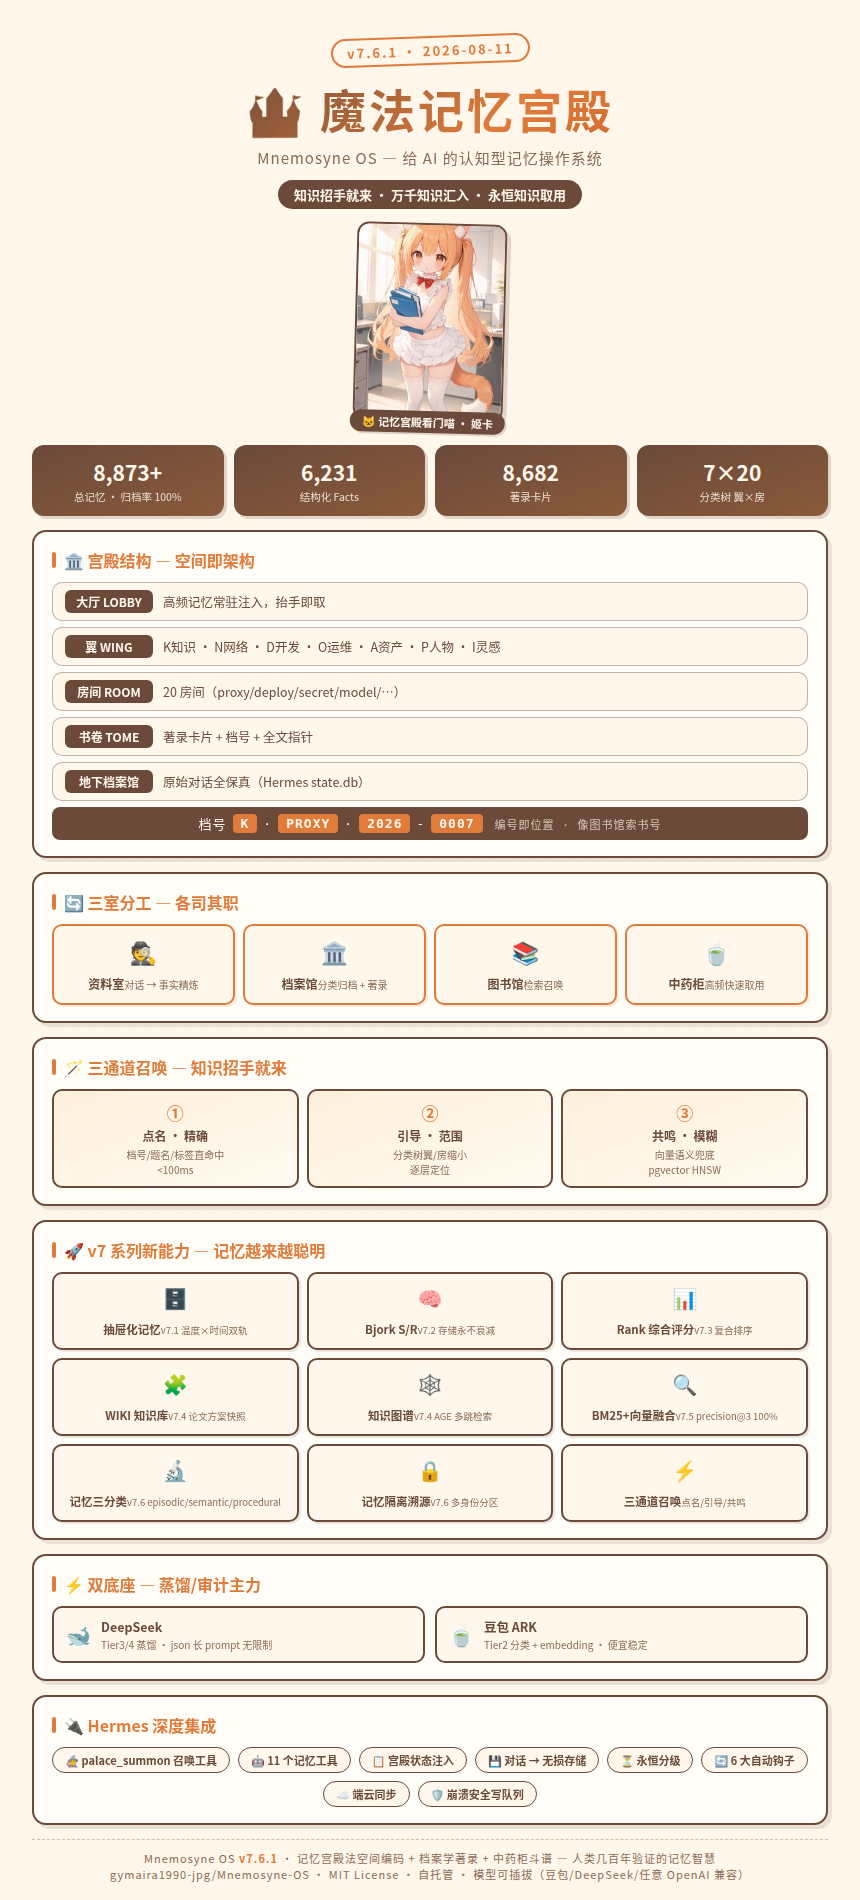
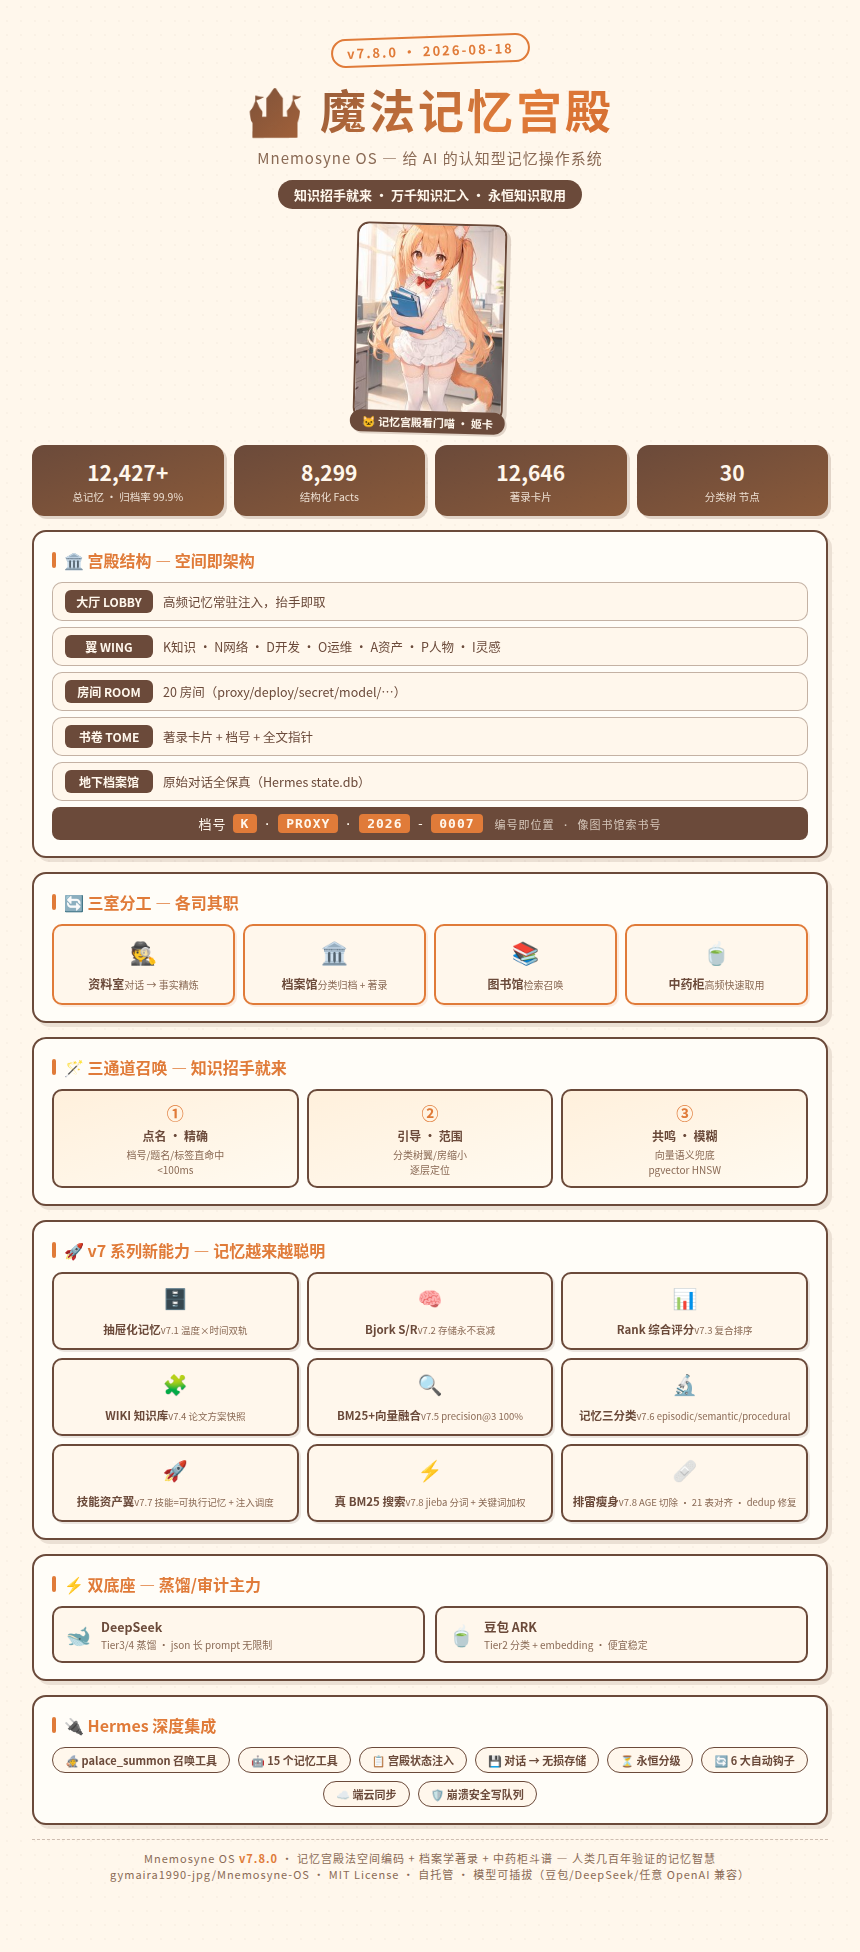
chore: v7.8 仓库装修 + CI + 海报换代
- 删除已禁用 browser.html(安全弃用, 无引用残留)
- 新增 GitHub Actions CI: pytest 双 Python 版本(3.11/3.12) + README CI badge
- 海报换代 v7.8.0: 数据快照(12,427/8,299/12,646/30), v7 能力格更新(技能资产翼/真BM25/排雷瘦身), 15 工具, 860×1952
- CHANGELOG 补装修记录

Changed region(s): [[0.0302, 0.0, 0.9674, 0.9937]]

diff --git a/docs/poster.html b/docs/poster.html
@@ -141,7 +141,7 @@
 <body>
 
 <div class="hero">
-  <div class="stamp">v7.6.1 · 2026-08-11</div>
+  <div class="stamp">v7.8.0 · 2026-08-18</div>
   <h1>🏰 魔法记忆宫殿</h1>
   <div class="sub">Mnemosyne OS — 给 AI 的认知型记忆操作系统</div>
   <div class="tagline">知识招手就来 · 万千知识汇入 · 永恒知识取用</div>
@@ -156,10 +156,10 @@
 
 <!-- 数据条 -->
 <div class="stats">
-  <div class="stat"><div class="num">8,873+</div><div class="cap">总记忆 · 归档率 100%</div></div>
-  <div class="stat"><div class="num">6,231</div><div class="cap">结构化 Facts</div></div>
-  <div class="stat"><div class="num">8,682</div><div class="cap">著录卡片</div></div>
-  <div class="stat"><div class="num">7×20</div><div class="cap">分类树 翼×房</div></div>
+  <div class="stat"><div class="num">12,427+</div><div class="cap">总记忆 · 归档率 99.9%</div></div>
+  <div class="stat"><div class="num">8,299</div><div class="cap">结构化 Facts</div></div>
+  <div class="stat"><div class="num">12,646</div><div class="cap">著录卡片</div></div>
+  <div class="stat"><div class="num">30</div><div class="cap">分类树 节点</div></div>
 </div>
 
 <!-- 宫殿结构 -->
@@ -207,11 +207,11 @@
     <div class="v7item"><span class="ic">🧠</span><span class="nm">Bjork S/R</span><span class="fn">v7.2 存储永不衰减</span></div>
     <div class="v7item"><span class="ic">📊</span><span class="nm">Rank 综合评分</span><span class="fn">v7.3 复合排序</span></div>
     <div class="v7item"><span class="ic">🧩</span><span class="nm">WIKI 知识库</span><span class="fn">v7.4 论文方案快照</span></div>
-    <div class="v7item"><span class="ic">🕸</span><span class="nm">知识图谱</span><span class="fn">v7.4 AGE 多跳检索</span></div>
     <div class="v7item"><span class="ic">🔍</span><span class="nm">BM25+向量融合</span><span class="fn">v7.5 precision@3 100%</span></div>
     <div class="v7item"><span class="ic">🔬</span><span class="nm">记忆三分类</span><span class="fn">v7.6 episodic/semantic/procedural</span></div>
-    <div class="v7item"><span class="ic">🔒</span><span class="nm">记忆隔离溯源</span><span class="fn">v7.6 多身份分区</span></div>
-    <div class="v7item"><span class="ic">⚡</span><span class="nm">三通道召唤</span><span class="fn">点名/引导/共鸣</span></div>
+    <div class="v7item"><span class="ic">🚀</span><span class="nm">技能资产翼</span><span class="fn">v7.7 技能=可执行记忆 + 注入调度</span></div>
+    <div class="v7item"><span class="ic">⚡</span><span class="nm">真 BM25 搜索</span><span class="fn">v7.8 jieba 分词 + 关键词加权</span></div>
+    <div class="v7item"><span class="ic">🩹</span><span class="nm">排雷瘦身</span><span class="fn">v7.8 AGE 切除 · 21 表对齐 · dedup 修复</span></div>
   </div>
 </div>
 
@@ -229,7 +229,7 @@
   <h3><span class="bar"></span>🔌 Hermes 深度集成</h3>
   <div class="integ">
     <span class="tag">🧙 palace_summon 召唤工具</span>
-    <span class="tag">🤖 11 个记忆工具</span>
+    <span class="tag">🤖 15 个记忆工具</span>
     <span class="tag">📋 宫殿状态注入</span>
     <span class="tag">💾 对话 → 无损存储</span>
     <span class="tag">⏳ 永恒分级</span>
@@ -240,7 +240,7 @@
 </div>
 
 <div class="footer">
-  Mnemosyne OS <b>v7.6.1</b> · 记忆宫殿法空间编码 + 档案学著录 + 中药柜斗谱 — 人类几百年验证的记忆智慧<br>
+  Mnemosyne OS <b>v7.8.0</b> · 记忆宫殿法空间编码 + 档案学著录 + 中药柜斗谱 — 人类几百年验证的记忆智慧<br>
   gymaira1990-jpg/Mnemosyne-OS · MIT License · 自托管 · 模型可插拔（豆包/DeepSeek/任意 OpenAI 兼容）
 </div>
 

diff --git a/CHANGELOG.md b/CHANGELOG.md
@@ -1,5 +1,7 @@
 ## release · v7.8.0 (2026-08-18) — 精准排雷 + 架构瘦身
 
+> 🔧 **发布后装修 (同日)**: ⑤ 删除已禁用的 Web 记忆浏览器(browser.html, API Key 明文风险弃用) ⑥ 新增 GitHub Actions CI(pytest 双 Python 版本) + README CI badge ⑦ 海报换代 v7.8.0(数据快照 12,427/8,299/12,646, v7.7 技能资产翼 + v7.8 真 BM25/排雷瘦身, 15 工具)
+
 > 🔧 **发布后补丁 (同日)**: ① tome_links 残留补切 — palace.py 仍会重建该表(本地+GZ), 生产库残留空表, 已删代码+测试(195→194)+生产 DROP, 21 表=schema.sql 对齐 ② 版本号 9 处一致性修复(README_CN/PROGRESS/ROADMAP/INSTALL/provider VERSION/requirements) ③ 数据快照刷新(12,427 记忆 / 8,299 facts / 12,646 卡片) ④ optimize-plan-v8.md 过时标注
 
 ### 🧹 病灶切除 (三方专家审计 + 实修)

diff --git a/README.md b/README.md
@@ -1,5 +1,6 @@
 <p align="center">
   <img src="https://img.shields.io/badge/version-7.8.0-brightgreen?style=flat-square" alt="version">
+  <img src="https://img.shields.io/github/actions/workflow/status/gymaira1990-jpg/Mnemosyne-OS/test.yml?style=flat-square&label=CI" alt="CI">
   <img src="https://img.shields.io/badge/license-MIT-blue?style=flat-square" alt="license">
   <img src="https://img.shields.io/badge/python-3.12+-blue?style=flat-square" alt="python">
   <img src="https://img.shields.io/badge/DB-PostgreSQL%2016%20%2B%20pgvector-336791?style=flat-square" alt="postgres">

diff --git a/README_CN.md b/README_CN.md
@@ -1,5 +1,6 @@
 <p align="center">
   <img src="https://img.shields.io/badge/version-7.8.0-brightgreen?style=flat-square" alt="version">
+  <img src="https://img.shields.io/github/actions/workflow/status/gymaira1990-jpg/Mnemosyne-OS/test.yml?style=flat-square&label=CI" alt="CI">
   <img src="https://img.shields.io/badge/license-MIT-blue?style=flat-square" alt="license">
   <img src="https://img.shields.io/badge/python-3.12+-blue?style=flat-square" alt="python">
   <img src="https://img.shields.io/badge/DB-PostgreSQL%2016%20%2B%20pgvector-336791?style=flat-square" alt="postgres">
